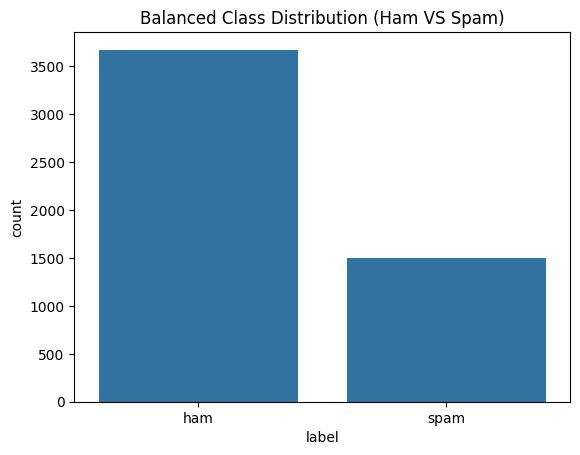
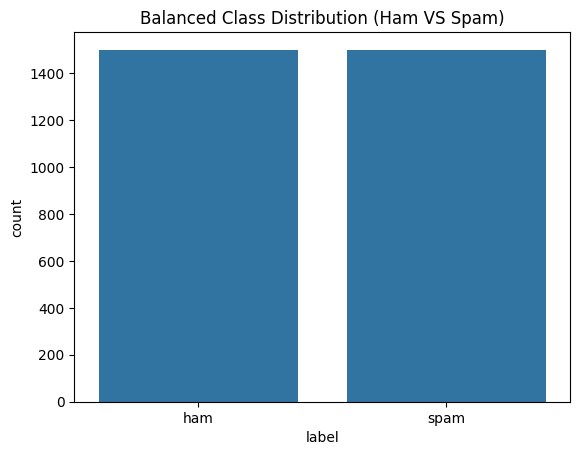
Detecting Spam Emails

diff --git a/Detecting Spam Emails/main.py b/Detecting Spam Emails/main.py
@@ -1,137 +1,208 @@
-import numpy as np
-import pandas as pd
-import matplotlib.pyplot as plt
-import seaborn as sns
+"""
+Email Spam Classifier
+----------------------
+An LSTM-based text classifier that separates spam from legitimate ("ham")
+emails. The pipeline covers data loading, class balancing, text cleanup,
+tokenization/padding, model training, and evaluation.
+"""
 
 import string
+import warnings
+from dataclasses import dataclass
+
+import matplotlib.pyplot as plt
+import numpy as np
+import pandas as pd
+import seaborn as sns
+import tensorflow as tf
 import nltk
 from nltk.corpus import stopwords
-from wordcloud import WordCloud
-nltk.download('stopwords')
-
-import tensorflow as tf
-from tensorflow.keras.preprocessing.text import Tokenizer
-from tensorflow.keras.preprocessing.sequence import pad_sequences
 from sklearn.model_selection import train_test_split
-from keras.callbacks import EarlyStopping, ReduceLROnPlateau
+from tensorflow.keras.callbacks import EarlyStopping, ReduceLROnPlateau
+from tensorflow.keras.preprocessing.sequence import pad_sequences
+from tensorflow.keras.preprocessing.text import Tokenizer
+from wordcloud import WordCloud
 
-import warnings
-warnings.filterwarnings('ignore')
+warnings.filterwarnings("ignore")
 
-data = pd.read_csv('spam_ham_dataset.csv')
-data.head()
 
-data.shape
+@dataclass
+class PipelineConfig:
+    """Central place for the knobs used throughout the pipeline."""
 
-sns.countplot(x='label', data=data)
-plt.show()
+    csv_path: str = "spam_ham_dataset.csv"
+    text_column: str = "text"
+    label_column: str = "label"
+    max_sequence_len: int = 100
+    embedding_dim: int = 32
+    lstm_units: int = 16
+    dense_units: int = 32
+    test_fraction: float = 0.2
+    random_seed: int = 42
+    batch_size: int = 32
+    max_epochs: int = 20
+    show_plots: bool = True
 
-ham_msg = data[data['label'] == 'ham']
-spam_msg = data[data['label'] == 'spam']
 
-# Downsample Ham emails to match the number of Spam emails
-ham_msg_balanced = ham_msg.sample(n=len(spam_msg), random_state=42)
+def ensure_nltk_resources() -> None:
+    """Download the stopword corpus if it isn't already available locally."""
+    nltk.download("stopwords", quiet=True)
 
-# Combine balanced data
-balanced_data = pd.concat([ham_msg_balanced, spam_msg]).reset_index(drop=True)
 
-# Visualize the balanced dataset
-sns.countplot(x='label', data=balanced_data)
-plt.title("Balanced Distribution of Spam and Ham Emails")
-plt.xticks(ticks=[0, 1], labels=['Ham (Not Spam)', 'Spam'])
-plt.show()
+def load_dataset(cfg: PipelineConfig) -> pd.DataFrame:
+    df = pd.read_csv(cfg.csv_path)
+    print(f"Loaded {len(df)} rows from {cfg.csv_path}")
+    return df
 
-balanced_data['text'] = balanced_data['text'].str.replace('Subject', '')
-balanced_data.head()
 
-punctuations_list = string.punctuation
-def remove_punctuations(text):
-    temp = str.maketrans('', '', punctuations_list)
-    return text.translate(temp)
+def plot_class_counts(df: pd.DataFrame, cfg: PipelineConfig, title: str) -> None:
+    if not cfg.show_plots:
+        return
+    sns.countplot(x=cfg.label_column, data=df)
+    plt.title(title)
+    plt.show()
 
-balanced_data['text']= balanced_data['text'].apply(lambda x: remove_punctuations(x))
-balanced_data.head()
 
-def remove_stopwords(text):
-  stop_words = stopwords.words('english')
+def balance_classes(df: pd.DataFrame, cfg: PipelineConfig) -> pd.DataFrame:
+    """Undersample the majority class so ham/spam counts match."""
+    spam_rows = df[df[cfg.label_column] == "spam"]
+    ham_rows = df[df[cfg.label_column] == "ham"].sample(
+        n=len(spam_rows), random_state=cfg.random_seed
+    )
+    balanced = pd.concat([ham_rows, spam_rows]).sample(
+        frac=1, random_state=cfg.random_seed
+    ).reset_index(drop=True)
+    return balanced
 
-  imp_words = []
 
-  for word in str(text).split():
-    word = word.lower()
+_PUNCT_TABLE = str.maketrans("", "", string.punctuation)
 
-    if word not in stop_words:
-      imp_words.append(word)
 
-  output = " ".join(imp_words)
+def strip_punctuation(text: str) -> str:
+    return text.translate(_PUNCT_TABLE)
 
-  return output 
 
-balanced_data['text'] = balanced_data['text'].apply(lambda text: remove_stopwords(text))
-balanced_data.head()
+def clean_text_column(df: pd.DataFrame, cfg: PipelineConfig) -> pd.DataFrame:
+    """Remove the leading 'Subject' marker, punctuation, and stopwords."""
+    stop_set = set(stopwords.words("english"))
 
-def plot_word_cloud(data, typ):
-  email_corpus = " ".join(data['text'])
-  wc = WordCloud(background_color='black', max_words=100, width=800, height=400).generate(email_corpus)
-  plt.figure(figsize=(7, 7))
-  plt.imshow(wc, interpolation='bilinear')
-  plt.title(f'Word Cloud for {typ} Emails', fontsize=15)
-  plt.axis('off')
-  plt.show()
+    def _clean(raw: str) -> str:
+        no_subject = raw.replace("Subject", "", 1)
+        no_punct = strip_punctuation(no_subject)
+        tokens = [w.lower() for w in no_punct.split() if w.lower() not in stop_set]
+        return " ".join(tokens)
 
-plot_word_cloud(balanced_data[balanced_data['label'] == 'ham'], typ='Non-Spam')
-plot_word_cloud(balanced_data[balanced_data['label'] == 'spam'], typ='Spam')
+    df = df.copy()
+    df[cfg.text_column] = df[cfg.text_column].apply(_clean)
+    return df
 
-train_X, test_X, train_Y, test_Y = train_test_split(
-    balanced_data['text'], balanced_data['label'], test_size=0.2, random_state=42
-)
 
-tokenizer = Tokenizer()
-tokenizer.fit_on_texts(train_X)
+def render_word_cloud(df: pd.DataFrame, cfg: PipelineConfig, category: str) -> None:
+    if not cfg.show_plots:
+        return
+    corpus = " ".join(df[df[cfg.label_column] == ("spam" if category == "Spam" else "ham")][cfg.text_column])
+    cloud = WordCloud(background_color="black", max_words=100, width=800, height=400).generate(corpus)
+    plt.figure(figsize=(7, 7))
+    plt.imshow(cloud, interpolation="bilinear")
+    plt.title(f"Most Frequent Words — {category} Emails", fontsize=15)
+    plt.axis("off")
+    plt.show()
 
-train_sequences = tokenizer.texts_to_sequences(train_X)
-test_sequences = tokenizer.texts_to_sequences(test_X)
 
-max_len = 100  # Maximum sequence length
-train_sequences = pad_sequences(train_sequences, maxlen=max_len, padding='post', truncating='post')
-test_sequences = pad_sequences(test_sequences, maxlen=max_len, padding='post', truncating='post')
+def vectorize_text(train_texts, test_texts, cfg: PipelineConfig):
+    """Fit a tokenizer on training text only, then encode + pad both splits."""
+    tokenizer = Tokenizer()
+    tokenizer.fit_on_texts(train_texts)
 
-train_Y = (train_Y == 'spam').astype(int)
-test_Y = (test_Y == 'spam').astype(int)
+    train_ids = pad_sequences(
+        tokenizer.texts_to_sequences(train_texts),
+        maxlen=cfg.max_sequence_len, padding="post", truncating="post",
+    )
+    test_ids = pad_sequences(
+        tokenizer.texts_to_sequences(test_texts),
+        maxlen=cfg.max_sequence_len, padding="post", truncating="post",
+    )
+    return train_ids, test_ids, tokenizer
 
-model = tf.keras.models.Sequential([
-    tf.keras.layers.Embedding(input_dim=len(tokenizer.word_index) + 1, output_dim=32, input_length=max_len),
-    tf.keras.layers.LSTM(16),
-    tf.keras.layers.Dense(32, activation='relu'),
-    tf.keras.layers.Dense(1, activation='sigmoid')  # Output layer
-])
 
-model.compile(
-    loss=tf.keras.losses.BinaryCrossentropy(from_logits=True),
-    optimizer='adam',
-    metrics=['accuracy']
-)
+def build_model(vocab_size: int, cfg: PipelineConfig) -> tf.keras.Model:
+    model = tf.keras.models.Sequential([
+        tf.keras.layers.Embedding(
+            input_dim=vocab_size, output_dim=cfg.embedding_dim, input_length=cfg.max_sequence_len
+        ),
+        tf.keras.layers.LSTM(cfg.lstm_units),
+        tf.keras.layers.Dense(cfg.dense_units, activation="relu"),
+        tf.keras.layers.Dense(1, activation="sigmoid"),
+    ])
+    model.compile(
+        loss=tf.keras.losses.BinaryCrossentropy(from_logits=False),
+        optimizer="adam",
+        metrics=["accuracy"],
+    )
+    return model
 
-model.summary()
 
-es = EarlyStopping(patience=3, monitor='val_accuracy', restore_best_weights=True)
-lr = ReduceLROnPlateau(monitor='val_loss', factor=0.5, verbose=0)
+def train_model(model: tf.keras.Model, train_X, train_Y, test_X, test_Y, cfg: PipelineConfig):
+    callbacks = [
+        EarlyStopping(patience=3, monitor="val_accuracy", restore_best_weights=True),
+        ReduceLROnPlateau(monitor="val_loss", factor=0.5, verbose=0),
+    ]
+    return model.fit(
+        train_X, train_Y,
+        validation_data=(test_X, test_Y),
+        epochs=cfg.max_epochs,
+        batch_size=cfg.batch_size,
+        callbacks=callbacks,
+    )
 
-history = model.fit(
-    train_sequences, train_Y,
-    validation_data=(test_sequences, test_Y),
-    epochs=20,
-    batch_size=32,
-    callbacks=[es, lr]
-)
 
-test_loss, test_accuracy = model.evaluate(test_sequences, test_Y)
-print(f'Test Loss: {test_loss}, Test Accuracy: {test_accuracy}')
+def plot_training_curves(history, cfg: PipelineConfig) -> None:
+    if not cfg.show_plots:
+        return
+    plt.plot(history.history["accuracy"], label="Training Accuracy")
+    plt.plot(history.history["val_accuracy"], label="Validation Accuracy")
+    plt.xlabel("Epochs")
+    plt.ylabel("Accuracy")
+    plt.title("Model Accuracy Over Training")
+    plt.legend()
+    plt.show()
 
-plt.plot(history.history['accuracy'], label='Training Accuracy')
-plt.plot(history.history['val_accuracy'], label='Validation Accuracy')
-plt.xlabel('Epochs')
-plt.ylabel('Accuracy')
-plt.title('Model Accuracy')
-plt.legend()
-plt.show()
+
+def run_pipeline(cfg: PipelineConfig = PipelineConfig()) -> None:
+    ensure_nltk_resources()
+
+    raw_df = load_dataset(cfg)
+    plot_class_counts(raw_df, cfg, "Original Class Distribution")
+
+    balanced_df = balance_classes(raw_df, cfg)
+    plot_class_counts(balanced_df, cfg, "Balanced Class Distribution (Ham vs Spam)")
+
+    cleaned_df = clean_text_column(balanced_df, cfg)
+
+    render_word_cloud(cleaned_df, cfg, "Non-Spam")
+    render_word_cloud(cleaned_df, cfg, "Spam")
+
+    train_texts, test_texts, train_labels, test_labels = train_test_split(
+        cleaned_df[cfg.text_column],
+        cleaned_df[cfg.label_column],
+        test_size=cfg.test_fraction,
+        random_state=cfg.random_seed,
+    )
+
+    train_X, test_X, tokenizer = vectorize_text(train_texts, test_texts, cfg)
+    train_Y = (train_labels == "spam").astype(int).to_numpy()
+    test_Y = (test_labels == "spam").astype(int).to_numpy()
+
+    model = build_model(vocab_size=len(tokenizer.word_index) + 1, cfg=cfg)
+    model.summary()
+
+    history = train_model(model, train_X, train_Y, test_X, test_Y, cfg)
+
+    test_loss, test_accuracy = model.evaluate(test_X, test_Y)
+    print(f"Test Loss: {test_loss:.4f} | Test Accuracy: {test_accuracy:.4f}")
+
+    plot_training_curves(history, cfg)
+
+
+if __name__ == "__main__":
+    run_pipeline()
